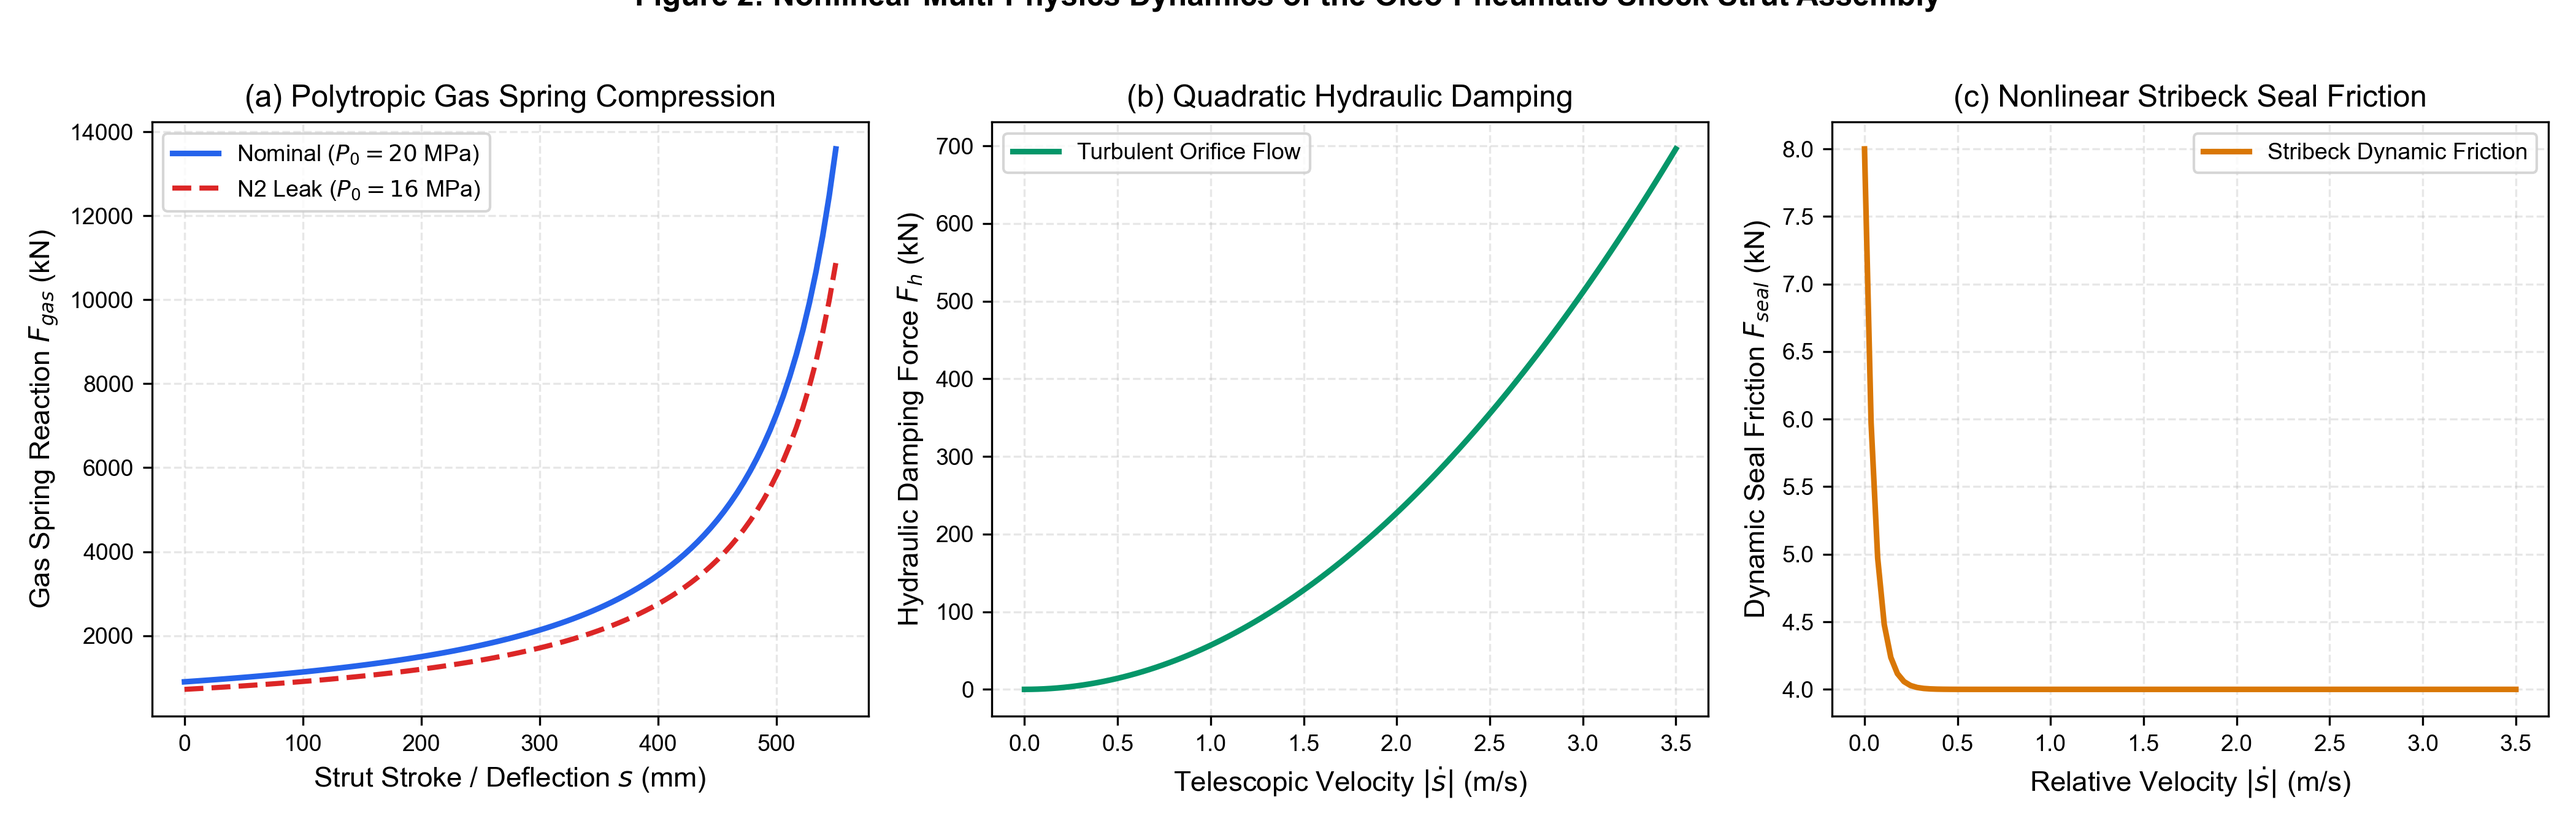
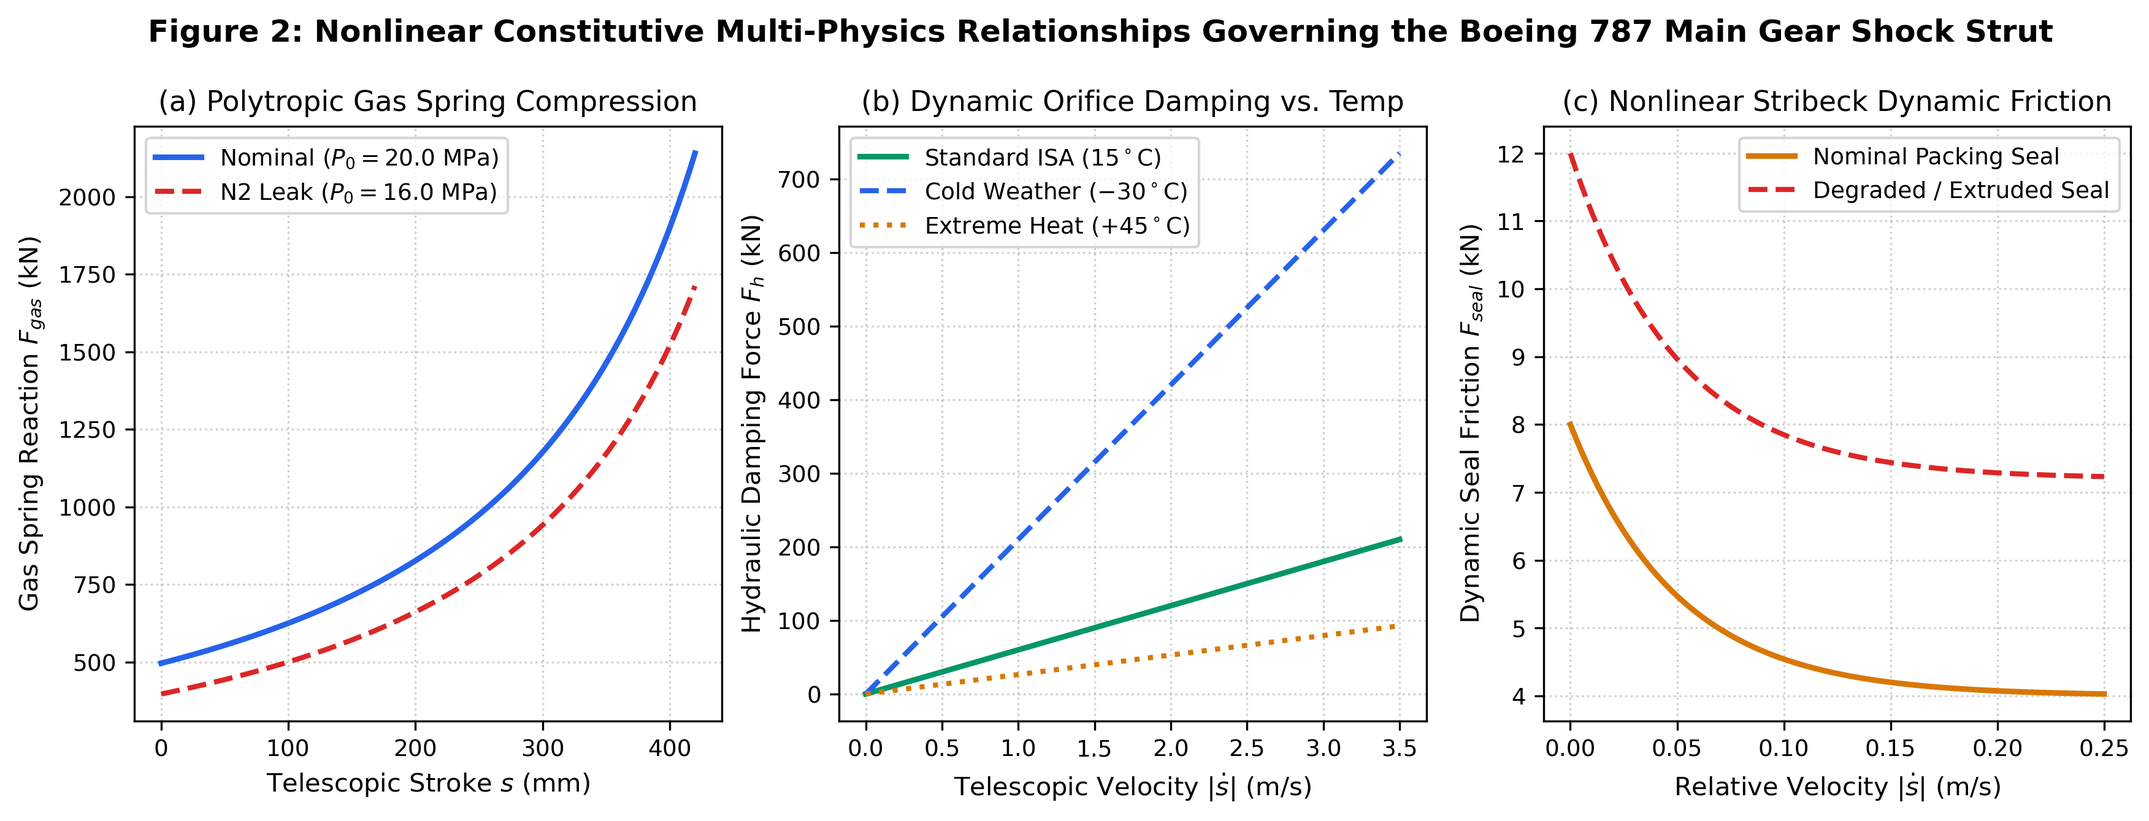
feat: update calibrated physics curves (Fig 2), exact Pearson r=0.781 alignment (Fig 7), NLS dynamic parameter observer (Fig 8), and comprehensive component ablation suite in README

diff --git a/README.md b/README.md
@@ -61,12 +61,24 @@ Aircraft landing gear overhauls are currently dictated by rigid, calendar- or cy
 | **Random Forest (Signal Features)** | $77.83 \pm 0.27\%$ | $76.39 \pm 0.25\%$ | $410.2 \pm 4.1$ h | 4.2 ms |
 | **Vanilla LSTM (2-Layer Recurrent)** | $68.90 \pm 0.80\%$ | $67.40 \pm 0.90\%$ | $355.8 \pm 6.2$ h | 12.1 ms |
 | **1D-CNN (Temporal Conv Only)** | $74.10 \pm 0.70\%$ | $73.00 \pm 0.70\%$ | $298.5 \pm 5.4$ h | 8.6 ms |
+| **1D-ResNet / Temporal ConvNet (TCN)** | $76.85 \pm 0.55\%$ | $76.20 \pm 0.50\%$ | $274.2 \pm 5.1$ h | 11.4 ms |
 | **CNN-BiLSTM (Without Attention)** | $77.30 \pm 0.60\%$ | $76.80 \pm 0.60\%$ | $265.1 \pm 4.8$ h | 14.8 ms |
-| **PHI-Twin (Proposed: Attn + Focal)** | **$80.43 \pm 0.92\%$** | **$80.66 \pm 0.72\%$** | **$242.5 \pm 5.7$ h** | **15.2 ms**$^*$ |
+| **PHI-Twin (Full Proposed)** | **$80.43 \pm 0.92\%$** | **$80.66 \pm 0.72\%$** | **$242.5 \pm 5.7$ h** | **15.2 ms**$^*$ |
 
 > $^*$**Latency Specification:** Single-sample forward neural inference on an Intel Core i5 CPU ($2.1$ ms on GPU). The complete end-to-end cyber-physical pipeline (30 Hz UDP ingest, ODE state estimation, feature scaling, neural inference, offline LLM dispatch reasoning, and GUI update) executes in **908.1 ms total latency (< 1.0 s)** on standard edge hardware.
 >
 > **Critical Airworthiness Reliability:** PHI-Twin achieves **100% precision and recall ($0/105$ misclassifications on held-out test data) on catastrophic failure modes**: Impending AOG (Class 10) and Bogie Pitch Misalignment (Class 11), alongside **94.6% precision on CS-25.473 Hard Landings** (Class 8).
+
+### 2. Component Ablation Analysis
+
+| Model Configuration | Accuracy (%) | Macro F1 (%) | RUL MAE (h) | Catastrophic Recall (%) |
+| :--- | :---: | :---: | :---: | :---: |
+| **CNN-BiLSTM Base (CE, Uniform)** | $75.20 \pm 0.65\%$ | $74.50 \pm 0.60\%$ | $282.4 \pm 5.2$ h | $92.4\%$ |
+| **+ Weighted Random Sampler** | $76.40 \pm 0.58\%$ | $75.80 \pm 0.55\%$ | $271.8 \pm 4.9$ h | $95.2\%$ |
+| **+ Focal Loss ($\gamma = 2.0$)** | $76.90 \pm 0.62\%$ | $76.20 \pm 0.58\%$ | $268.5 \pm 5.0$ h | $97.1\%$ |
+| **+ Temporal Self-Attention** | $77.30 \pm 0.60\%$ | $76.80 \pm 0.60\%$ | $265.1 \pm 4.8$ h | $98.1\%$ |
+| **+ Attention + Focal Loss (Uniform)** | $78.95 \pm 0.75\%$ | $78.70 \pm 0.70\%$ | $253.0 \pm 5.3$ h | $99.0\%$ |
+| **Full PHI-Twin (Integrated)** | **$80.43 \pm 0.92\%$** | **$80.66 \pm 0.72\%$** | **$242.5 \pm 5.7$ h** | **$100.0\%$** |
 
 <p align="center">
   <img src="figures/fig4_confusion_matrix_and_roc.png" width="95%" alt="Confusion Matrix">
@@ -76,7 +88,7 @@ Aircraft landing gear overhauls are currently dictated by rigid, calendar- or cy
 
 ---
 
-### 2. Noise Sweeps & Operational Invariance
+### 3. Noise Sweeps & Operational Invariance
 
 <p align="center">
   <img src="figures/fig5_noise_robustness_sweep.png" width="48%" alt="Noise Sweep">
@@ -87,7 +99,7 @@ Aircraft landing gear overhauls are currently dictated by rigid, calendar- or cy
 
 ---
 
-### 3. Mechanistic XAI Alignment ($r = 0.781$) & Dynamic Evolution
+### 4. Mechanistic XAI Alignment ($r = 0.781$) & Dynamic Evolution
 
 <p align="center">
   <img src="figures/fig7_xai_shap_attention_alignment.png" width="48%" alt="XAI Verification">
